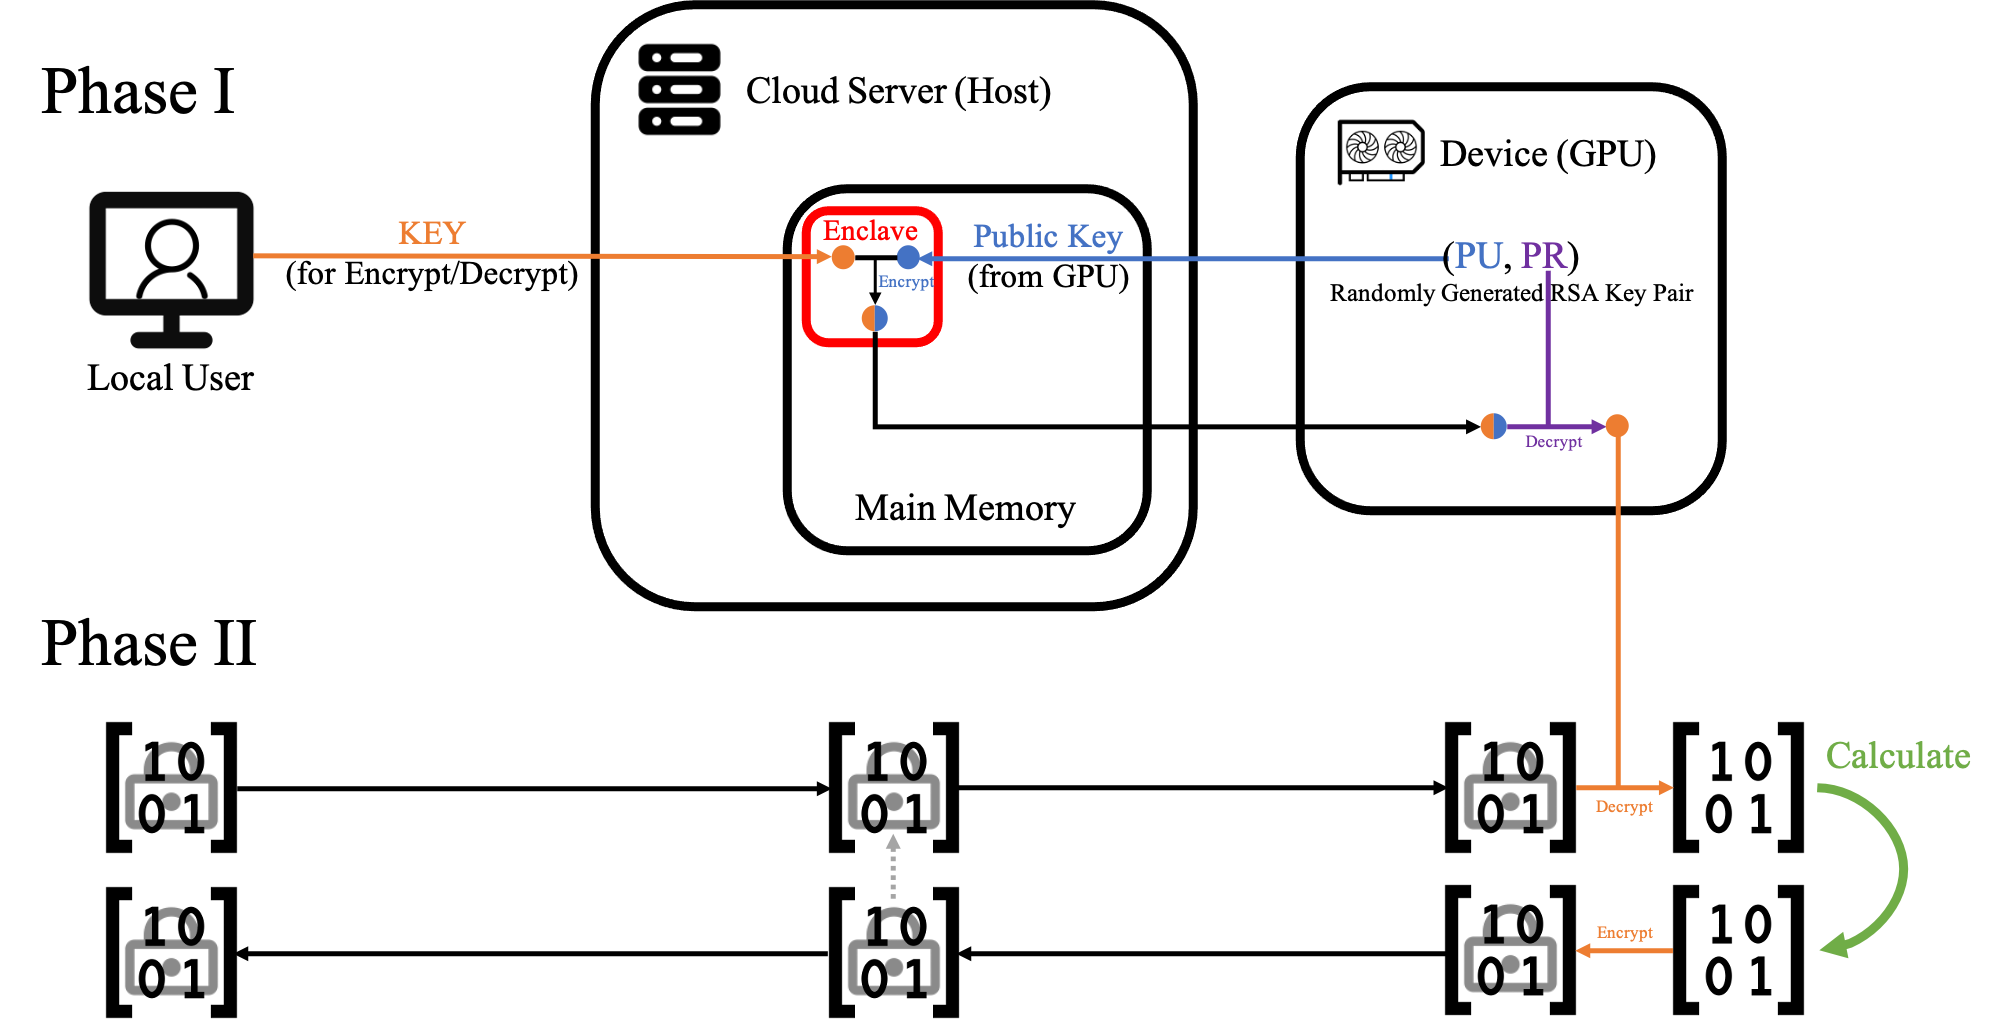
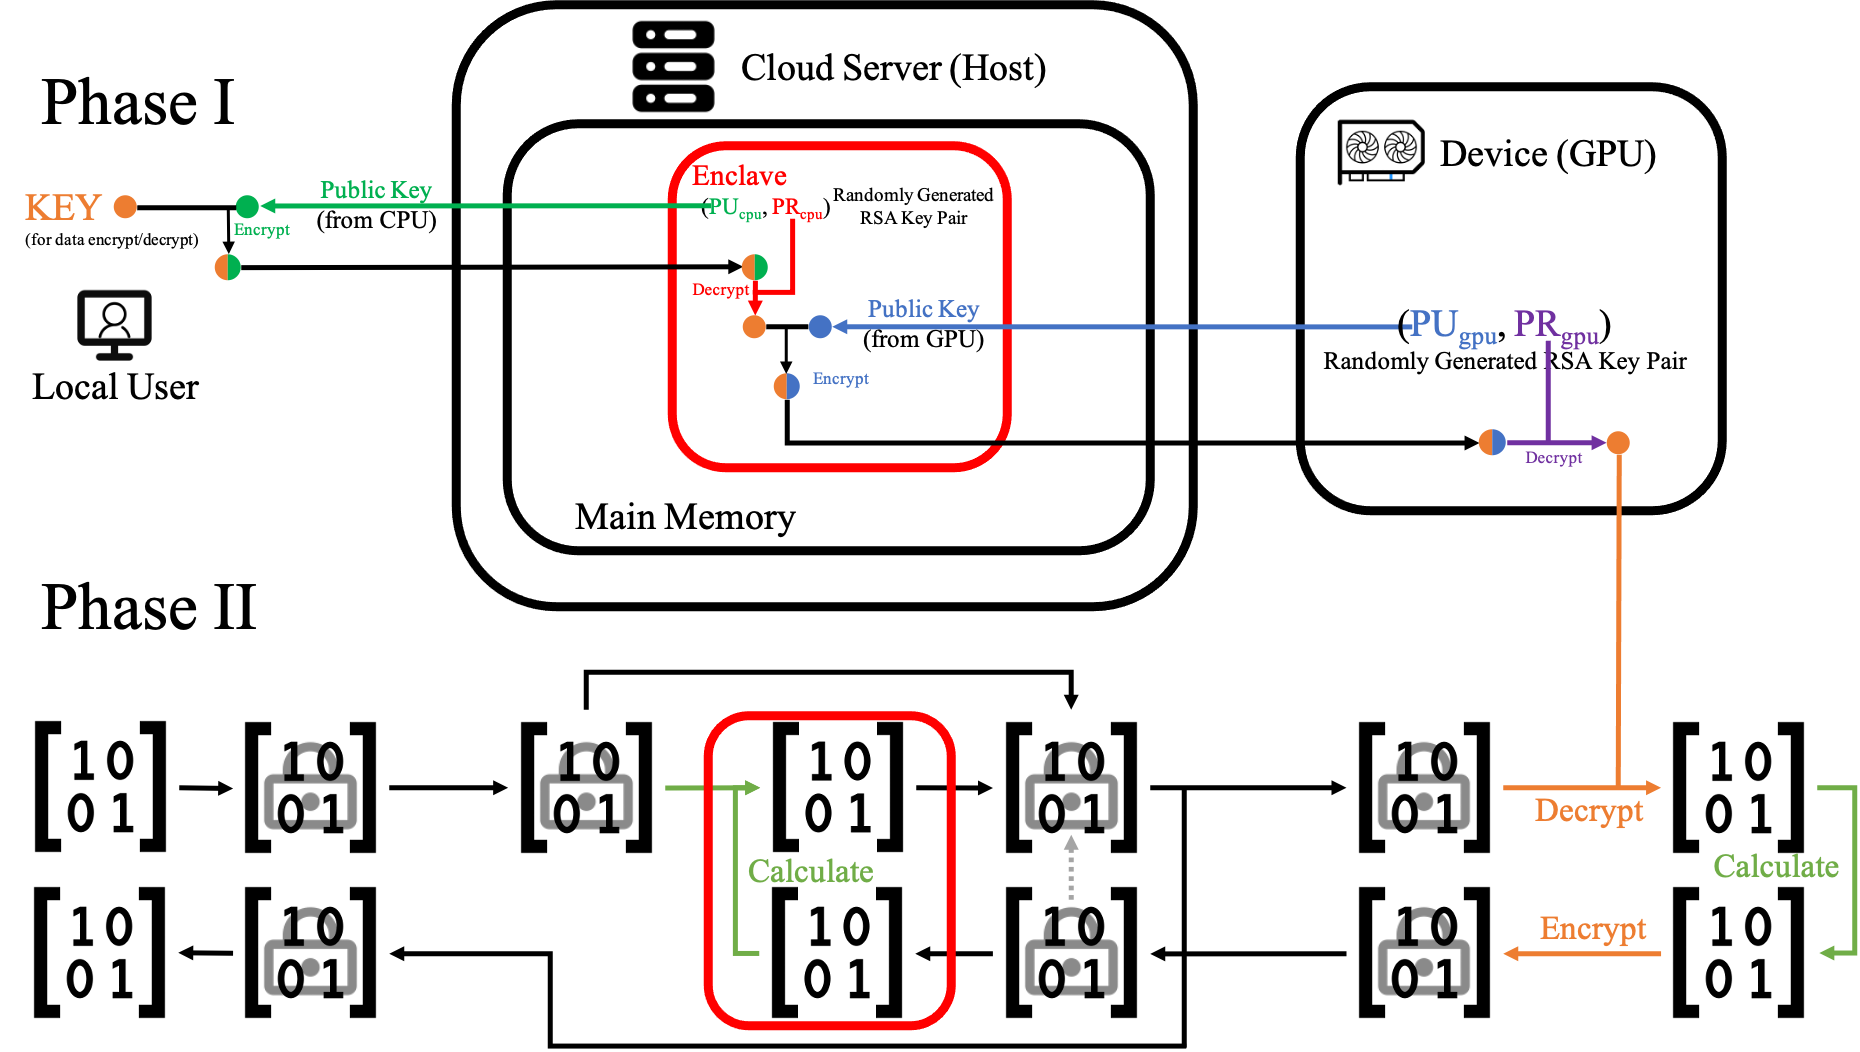
REAME updated

diff --git a/README.md b/README.md
@@ -2,7 +2,11 @@
 
 An (onbuilding) **enc**rypted (**enc**lave-based) **he**terogeneous **ca**lculation **p**rotocol based on Nvidia CUDA and Intel SGX, designed and implemented by [Tinghao Xie](http://vtu.life), [Haoyang Shi](https://github.com/Luke-Skycrawler), [Zihang Li](https://github.com/zjulzhhh).
 
+Enchecap illustration:
 ![demo](./assets/demo.png)
+
+Enchecap illustration (with **protected** and **trusted** regions):
+![demo](./assets/demo_box.png)
 
 ---
 
@@ -49,19 +53,21 @@ Run with:
 ## TODO
 
 ### Phase I: Initialization
-- [x] Create an enclave
-- [x] Get and user's keys (notice that the user's keys are now simply welded in the code)
-- [ ] GPU generate its own keys (there are bugs with the function, now replaced with a straw man)
-- [x] Key exchange
+- [x] 1. Create an enclave
+- [ ] 2. Enclave generate its own keys
+- [ ] 3. Key exchange between User and Enclave
+- [ ] 4. GPU generate its own keys (there are bugs with the function, now replaced with a straw man)
+- [x] 5. Key exchange between Enclave and GPU
 
 ### Phase II: Calculation
-- [x] En/Decrypt in enclave (with unsealed keys in enclave memory only)
-- [x] En/Decrypt on GPU (with keys in device memory only)
+- [x] 6. En/Decrypt in enclave (with unsealed keys in enclave memory only)
+- [x] 7. En/Decrypt on GPU (with keys in device memory only)
 
 ### Future Work
 - [ ] Test the performance
-- [ ] Directly injecting user's keys into the enclave
-- [ ] The current RSA en/decrypt algorithm is extremely naive! (further works include regrouping, big number support...)
+- [ ] The user's keys are now simply welded in the code, need to finish TODO list 2 and 3
+- [ ] The GPU's keys are now simply welded in the code, need to finish TODO list 4
+- [ ] The current RSA en/decrypt algorithm is yet extremely naive! (further works include regrouping, big number supports...)
 - [ ] Remote attestation with Intel SGX
-- [ ] Intergration with real industrial work with CUDA
-- [ ] Find ways to protect data on GPU side
+- [ ] Intergration with real industrial work based on CUDA
+- [ ] Find ways to protect data on GPU side (hardware)
